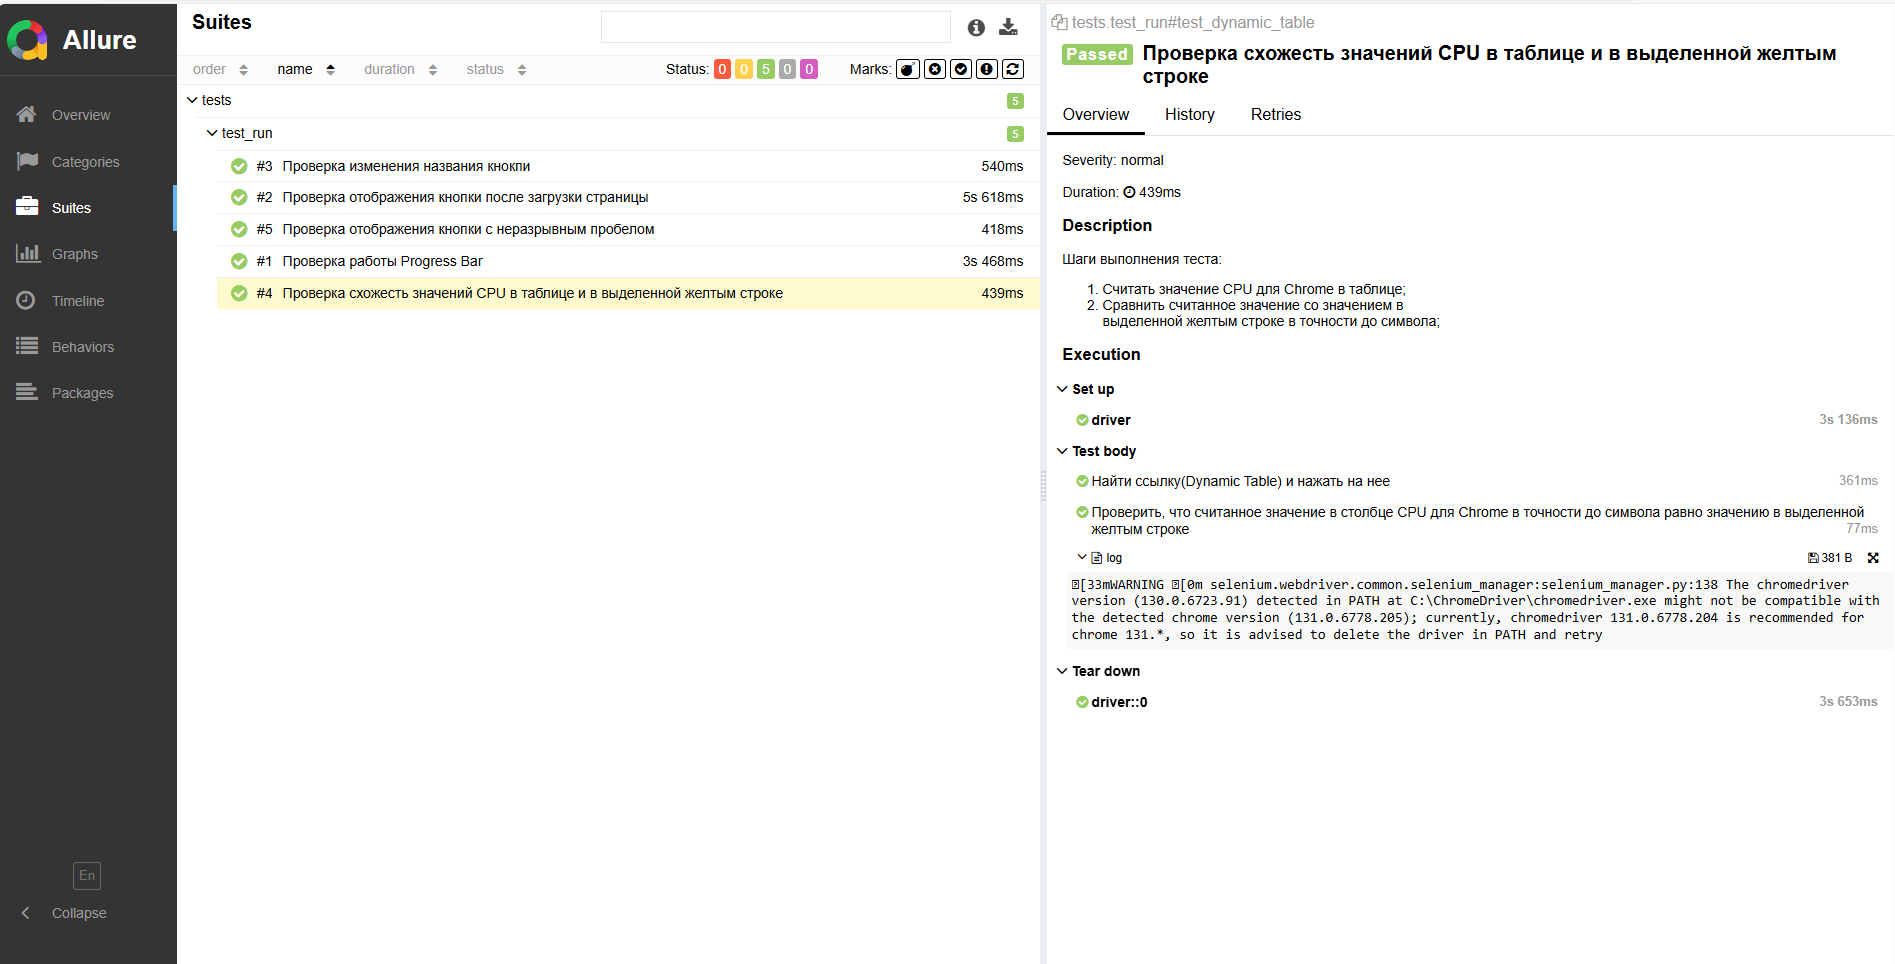
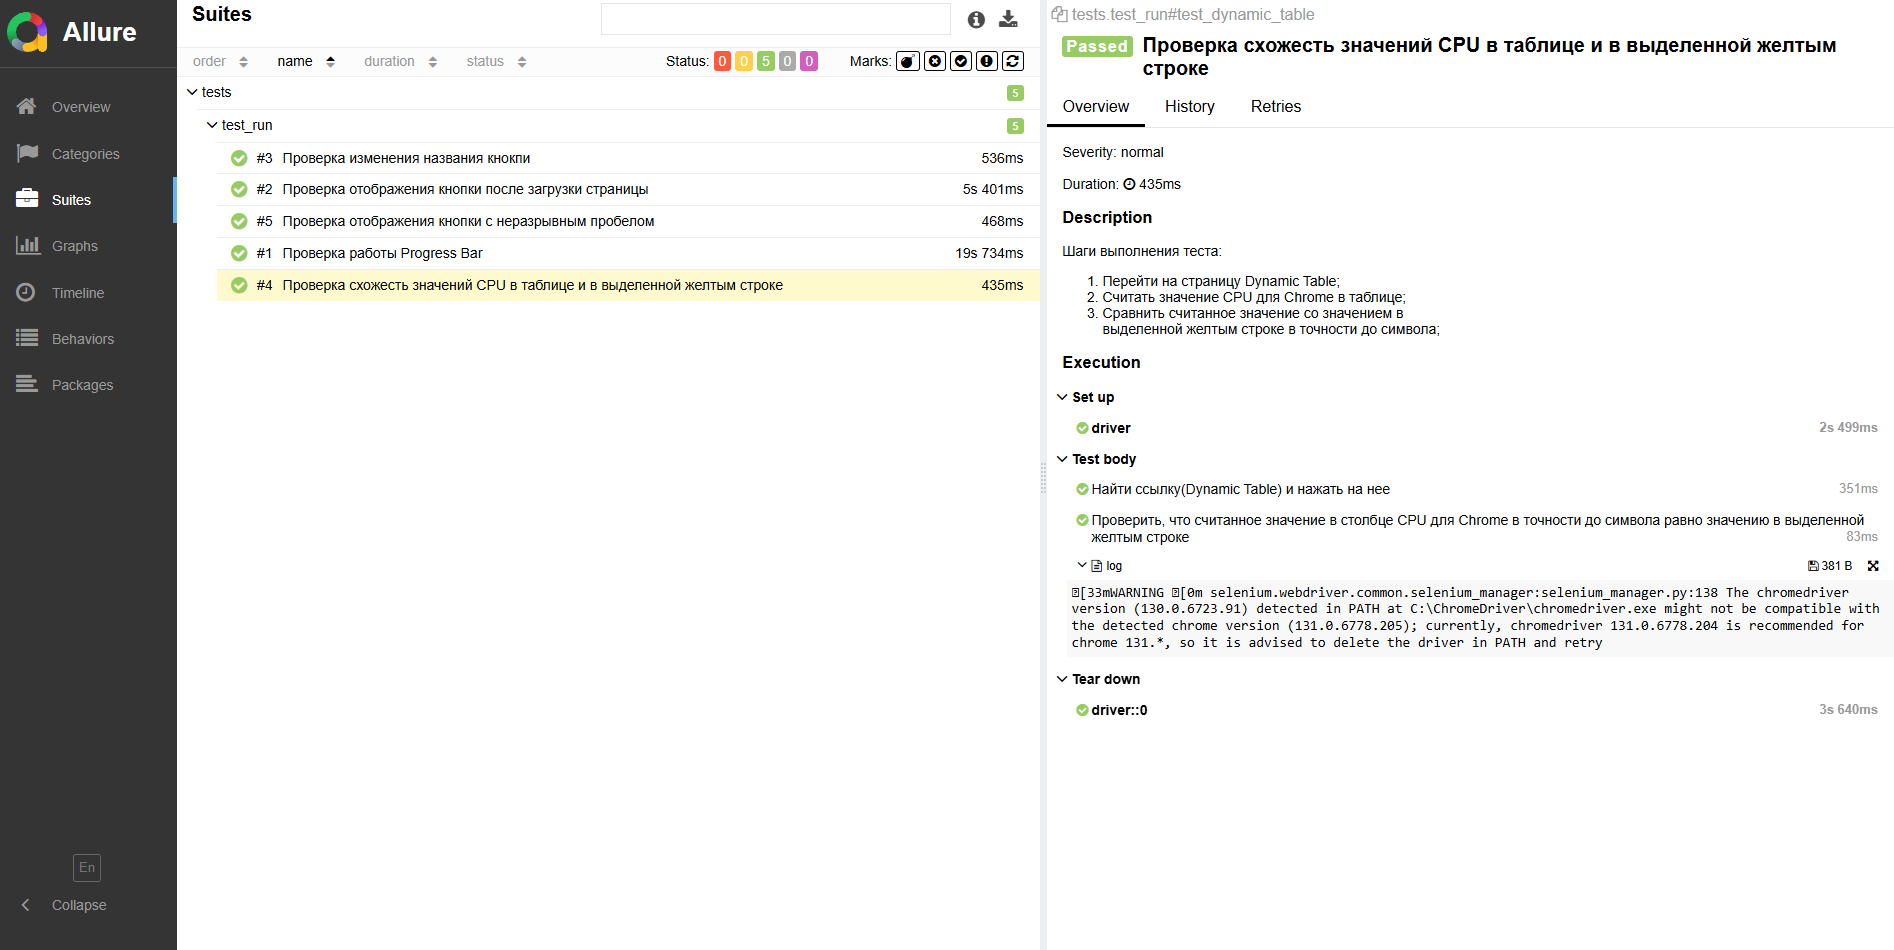
Внесены новые изменения

diff --git a/tests/test_run.py b/tests/test_run.py
@@ -9,9 +9,13 @@ from pages.NBSPPage import NBSPPage
 
 @allure.title('Проверка работы Progress Bar')
 @allure.description('''
-Тест проверяет, что:
-1. Значение Result < 5;
-2. Значение Duration < 17000;
+Шаги:
+1. Перейти на страницу Progress Bar;
+2. Нажать на кнопку "Start";
+3. Подождать до достижения нужного значения;
+4. Нажать на кнопку "Stop";
+5. Проверить, что значение "Result" < 5;
+6. Проверить, что значение "Duration" < 17000.
 ''')
 def test_progress_bar(driver):
     main_page = MainPage(driver)
@@ -30,9 +34,10 @@ def test_progress_bar(driver):
 
 @allure.title('Проверка отображения кнопки после загрузки страницы')
 @allure.description('''
-Шаги выполнения теста:
-1. Загрузка страницы с задержкой;
-2. Проверка, что кнопка отобразилась;
+Шаги:
+1. Перейти на страницу Load Delay;
+2. Дождаться загрузки страницы;
+3. Проверить, что кнопка отображается.
 ''')
 def test_load_delay(driver):
     main_page = MainPage(driver)
@@ -46,10 +51,13 @@ def test_load_delay(driver):
 
 @allure.title('Проверка изменения названия кнокпи')
 @allure.description('''
-Шаги выполнения теста:
-1. Ввести текст в поле для ввода;
-2. Нажать кнопку;
-3. Удостовериться, что название до нажатия кнопки было одно, после - другое;
+Шаги:
+1. Перейти на страницу Text Input;
+2. Получить текущее название кнопки;
+3. Ввести текст в поле для ввода;
+4. Нажать на кнопку;
+5. Удостовериться, что название до нажатия кнопки было одно,
+после - другое(введенное в поле);
 ''')
 def test_text_input(driver):
     main_page = MainPage(driver)
@@ -81,8 +89,9 @@ def test_text_input(driver):
               r'таблице и в выделенной желтым строке')
 @allure.description('''
 Шаги выполнения теста:
-1. Считать значение CPU для Chrome в таблице;
-2. Сравнить считанное значение со значением в
+1. Перейти на страницу Dynamic Table;
+2. Считать значение CPU для Chrome в таблице;
+3. Сравнить считанное значение со значением в
 выделенной желтым строке в точности до символа;
 ''')
 def test_dynamic_table(driver):
@@ -99,8 +108,9 @@ def test_dynamic_table(driver):
 
 @allure.title(r'Проверка отображения кнопки с неразрывным пробелом')
 @allure.description('''
-Тест проверяет, что кнопка "My Button" с неразрывным
-пробелом отображается на странице
+Шаги:
+1. Перейти на страницу с кнопкой "My Button";
+2. Проверить, что кнопка "My Button" с неразрывным пробелом отображается.
 ''')
 def test_nbsp(driver):
     main_page = MainPage(driver)

diff --git a/pages/BasePage.py b/pages/BasePage.py
@@ -36,17 +36,14 @@ class BasePage:
                 (by, value)
             ), message=f'Элементы {by, value} не найдены')
 
-    def check_existence_element(self, locator: tuple) -> bool:
+    def check_existence_element(self, locator: tuple) -> None:
         """
         Проверяет, есть ли элемент на странице
         :param locator: Кортеж, определяющий локатор
-        :return: True, если элемент присутствует и False, если нет
+        :return: None. Вызывает AssertionError, если элемент не найден.
         """
-        try:
-            element = self.find_element(*locator)
-            return element.is_displayed()
-        except Exception:
-            return False
+        element = self.find_element(*locator)
+        assert element.is_displayed(), 'Элемент не найден!'
 
     def click_element(self, locator: tuple) -> None:
         """

diff --git a/pages/LoadDelayPage.py b/pages/LoadDelayPage.py
@@ -1,5 +1,6 @@
 from selenium.webdriver.common.by import By
 from pages.BasePage import BasePage
+from selenium.common.exceptions import NoSuchElementException
 
 
 class LoadDelayPage(BasePage):
@@ -11,4 +12,8 @@ class LoadDelayPage(BasePage):
         )
 
     def present_button_after_delay(self) -> bool:
-        return self.check_existence_element(self.btn_after_delay)
+        try:
+            self.check_existence_element(self.btn_after_delay)
+            return True
+        except NoSuchElementException:
+            raise AssertionError("Кнопка не появилась после задержки")

diff --git a/pages/NBSPPage.py b/pages/NBSPPage.py
@@ -1,5 +1,6 @@
 from selenium.webdriver.common.by import By
 from pages.BasePage import BasePage
+from selenium.common.exceptions import NoSuchElementException
 
 
 class NBSPPage(BasePage):
@@ -8,4 +9,8 @@ class NBSPPage(BasePage):
         self.my_btn = (By.XPATH, '//button[text()="My\u00A0Button"]')
 
     def present_my_button(self) -> bool:
-        return self.check_existence_element(self.my_btn)
+        try:
+            self.check_existence_element(self.my_btn)
+            return True
+        except NoSuchElementException:
+            raise AssertionError("Кнопка не отображается!")
